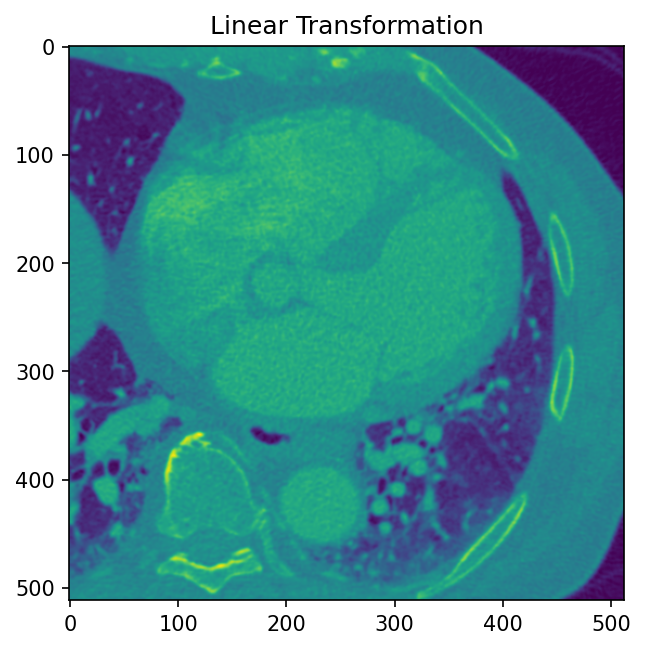
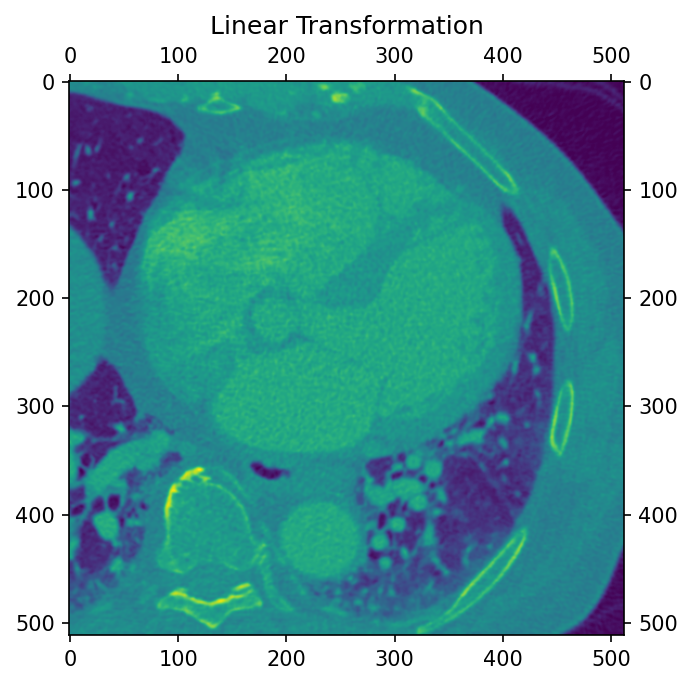
Sorting using merge sort

diff --git a/Assignment Number 2/Assignment2.py b/Assignment Number 2/Assignment2.py
@@ -7,24 +7,43 @@
 # https://people.revoledu.com/kardi/tutorial/Regression/nonlinear/NonLinearTransformation.htm
 # https://theailearner.com/tag/log-transformation/
 # https://www.youtube.com/watch?v=qSTv_m-KFk0&list=PLZbbT5o_s2xq7LwI2y8_QtvuXZedL6tQU&index=21
+# https://medium.com/@george.seif94/a-tour-of-the-top-5-sorting-algorithms-with-python-code-43ea9aa02889
 #############################################################################
+# Importing necessary libraries
 import numpy as np
-import pandas as pd
 import matplotlib.pyplot as plt
 import math as m
-import seaborn as sns
-import matplotlib.gridspec as gridspec
-import matplotlib.patches as pat
-import matplotlib.colors as colors
-import matplotlib.cm as cmx
-import matplotlib as mpl
-import cufflinks as cf
-from plotly.offline import download_plotlyjs
-from plotly.offline import init_notebook_mode
-from plotly.offline import plot , iplot
 from collections import OrderedDict
-#cf.go_offline()
+#############################################################################
+# Sorting algorithm for Median filter (# Reference for sorting)
+# Implementing Merge sort
+def sorting(median_list):
 
+    if len(median_list) <= 1 :
+        return median_list
+    mid = len(median_list) // 2
+    # Perform merge_sort recursively on both halves
+    left , right = sorting(median_list[:mid]) , sorting(median_list[mid :])
+    # Merge each side together
+    return merge(left , right , median_list.copy())
+
+
+def merge(l , r , merged) :
+    lc , rc = 0 , 0
+    while lc < len(l) and rc < len(r) :
+        # Sort each one and place into the result
+        if l[lc] <= r[rc] :
+            merged[lc + rc] = l[lc]
+            lc += 1
+        else :
+            merged[lc + rc] = r[rc]
+            rc += 1
+    for lc in range(lc , len(l)) :
+        merged[lc + rc] = l[lc]
+    for rc in range(rc , len(r)) :
+        merged[lc + rc] = r[rc]
+    
+    return merged
 #############################################################################
 def profile_line(img):
     # Profile line through line 256 of the 2D data set
@@ -37,6 +56,7 @@ def profile_line(img):
     plt.title("Profile line for 256th record")
     ax1.plot(img[256] , label = 'line 256')
     ax1.legend(loc = 1)
+    ax1.set_aspect('equal')
     fig1.savefig('Profile_Line.png' , bbox_inches = "tight" , dpi = 150)
 #############################################################################
 def mean_value(img , sum):
@@ -53,46 +73,47 @@ def variance_value(img , img_mean) :
 def histogram_line(hist) :
     fig2 = plt.figure(figsize= (10,5), dpi=100)
     ax2 = plt.axes()
-    # plt.xlim(0 , val_max)
-    # plt.ylim(0 , 700)
     plt.xlabel("Value")
     plt.ylabel("Count")
     plt.title("Histogram as a line graph")
-    # Sorting the dictonary based on the Key values to represent the histogram as line plot(clear view)
+    # Sorting the dictionary based on the Key values to represent the histogram as line plot(clear view)
     hist = OrderedDict(sorted(hist.items()))
     keys = np.array(np.fromiter(hist.keys() , dtype = float))
     vals = np.array(np.fromiter(hist.values() , dtype = float))
     plt.plot(keys , vals)
+    # ax2.set_aspect('equal')
     fig2.savefig('Histogram_LineGraph.png' , bbox_inches = "tight" , dpi = 150)
 #############################################################################
 # Both linear and nonlinear transformations could have been combined into a single
 # function but to make it modular and reusable separating the functions
 def linear_transf(img , img_dimensions) :
     # Implementing linear function
-    linear_transf = np.zeros((img_dimensions[0] , img_dimensions[1]))
+    linear_transf = np.zeros((img_dimensions[0] , img_dimensions[1]), dtype = 'int')
     for i in range(img_dimensions[0]) :
         for j in range(img_dimensions[1]) :
             # S = T(R) = ((R - Rmin)/(Rmax - Rmin))* Smax
-            linear_transf[i][j] = int(((img[i][j] - val_min) / (val_max - val_min)) * 255)
+            linear_transf[i][j] = round(((img[i][j] - val_min) / (val_max - val_min)) * 255)
     fig3 = plt.figure( )
     ax3 = plt.axes()
     plt.title("Linear Transformation")
     im3 = ax3.imshow(linear_transf)
-    # fig3.colorbar(im3)
+    # ax3.tick_params(labelbottom=True, labeltop=True, labelleft=True, labelright=True,
+    #                  bottom=True, top=True, left=True, right=True)
+    ax3.set_aspect('equal')
     fig3.savefig('Linear_Transformation.png' , bbox_inches = "tight" , dpi = 150)
 
 #############################################################################
 def nonlinear_trans(img , img_dimensions):
     # Implementing non-linear function sigmoid
-    nonlinear_transf = np.zeros((img_dimensions[0] , img_dimensions[1]))
+    nonlinear_transf = np.zeros((img_dimensions[0] , img_dimensions[1]),dtype = 'int')
     for i in range(img_dimensions[0]) :
         for j in range(img_dimensions[1]) :
-            nonlinear_transf[i][j] = m.sqrt(img[i][j])
+            nonlinear_transf[i][j] = round(m.sqrt(img[i][j]))
     fig4 = plt.figure( )
     ax4 = plt.axes()
     plt.title("Non Linear Transformation")
     im4 = ax4.imshow(nonlinear_transf)
-    # fig4.colorbar(im4)
+    ax4.set_aspect('equal')
     fig4.savefig('Nonlinear_Transformation.png' , bbox_inches = "tight" , dpi = 150)
 #############################################################################
 # Smoothing filter
@@ -119,24 +140,25 @@ def smoothing(img , img_dimensions ):
                     median_list.append(img[i + a][j + b] * filter[a][b])
             # Final convolved result for one filter x image element wise multiplication(divide by filter dimension)
             boxcar[i][j] = round(boxcar[i][j] / (filter_dimensions[0] * filter_dimensions[1]))
-            # Sort the median list to determine the meadian value
-            median_list.sort()
+            # Sort the median list to determine the median value
+            median_list = sorting(median_list)
             # Median value(middle of the list)
             median[i][j] = median_list[int(len(median_list) / 2)]
+            # clear median list . median_list.clear()
             median_list = []
-
+  
     fig5 = plt.figure()
     ax5 = plt.axes()
     plt.title("Boxcar Filter")
     im5 = ax5.imshow(boxcar)
-    # fig5.colorbar(im5)
+    ax5.set_aspect('equal')
     fig5.savefig('Boxcar_Filter.png' , bbox_inches = "tight" , dpi = 150)
     
     fig6 = plt.figure()
     ax6 = plt.axes()
     plt.title("Median Filter")
     im6 = ax6.imshow(median)
-    #fig6.colorbar(im6)
+    ax6.set_aspect('equal')
     fig6.savefig('Median_Filter.png' , bbox_inches = "tight" , dpi = 150)
 #############################################################################
 def histogram_bar(hist) :
@@ -149,8 +171,6 @@ def histogram_bar(hist) :
     plt.bar(list(hist.keys()),list(hist.values()))
     fig7.savefig('Histogram_Bar.png' , bbox_inches = "tight" , dpi = 150)
 #############################################################################
-
-
 # Reading the data set
 ct = []
 sum = 0
@@ -173,7 +193,7 @@ with open('slice150.raw' , 'rb') as f :
         if val > val_max:
             val_max = val
         # Determining Histogram without using built in function
-        # Saving the values in dictonary as key value pairs
+        # Saving the values in dictionary as key value pairs
         if val in hist.keys():
             hist[val] += 1
         else :
